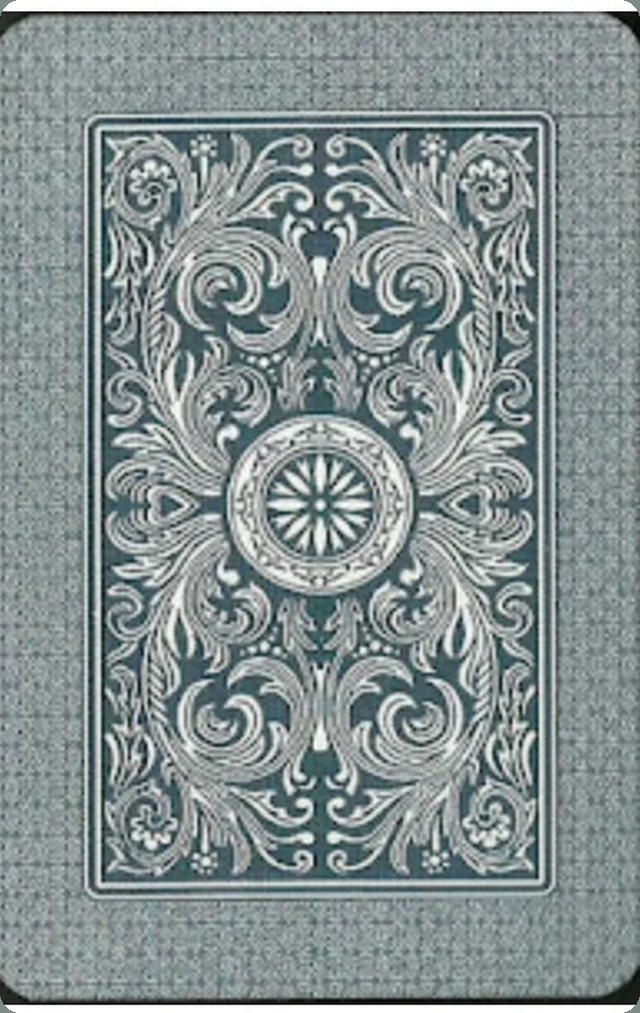
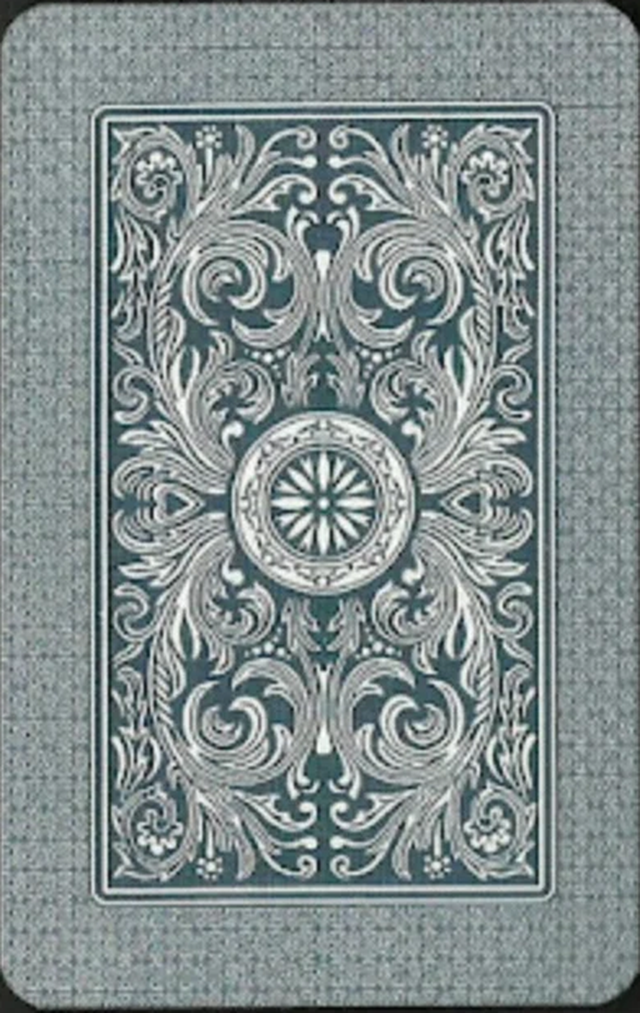
fix(cartas): recortar el dorso sin fondo blanco
- Recorte por dentro de la greca, sin franjas blancas arriba/abajo.
- Canto 3D en gris/crema y caché de cartas v7.

diff --git a/packages/client/src/graphics/cardTextures.ts b/packages/client/src/graphics/cardTextures.ts
@@ -3,7 +3,7 @@ import { Card } from "@brisca/core";
 
 // Bump when the card art changes so clients and the PWA cache fetch the
 // restored versions instead of serving the previous deck.
-const CARD_VERSION = "6";
+const CARD_VERSION = "7";
 
 const loader = new THREE.TextureLoader();
 const textureCache = new Map<string, THREE.Texture>();

diff --git a/packages/client/src/graphics/tableScene.ts b/packages/client/src/graphics/tableScene.ts
@@ -372,7 +372,7 @@ export class TableScene {
     const backTex = getCardBackTexture();
 
     const edgeMat = new THREE.MeshStandardMaterial({
-      color: "#faf8f5",
+      color: "#c9c4b8",
       roughness: 0.45,
     });
     const frontMat = new THREE.MeshStandardMaterial({
